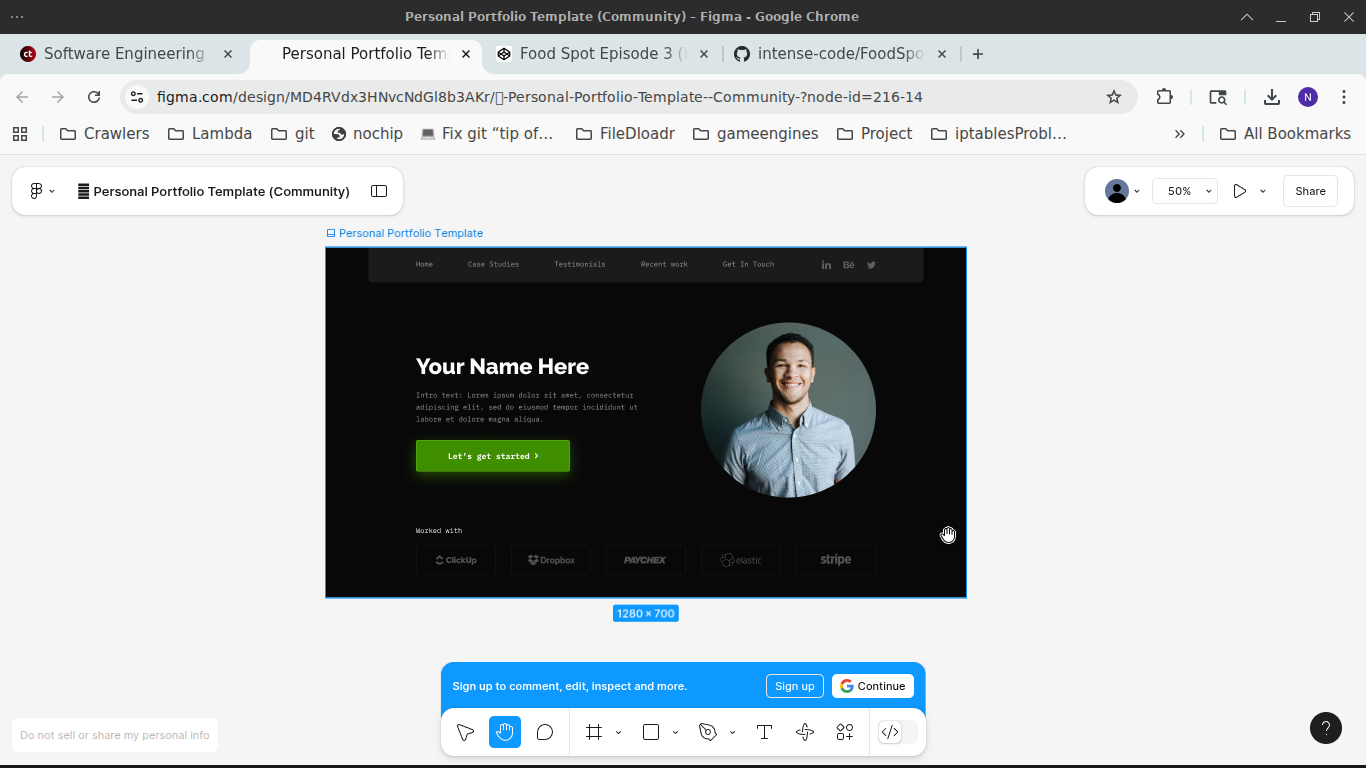
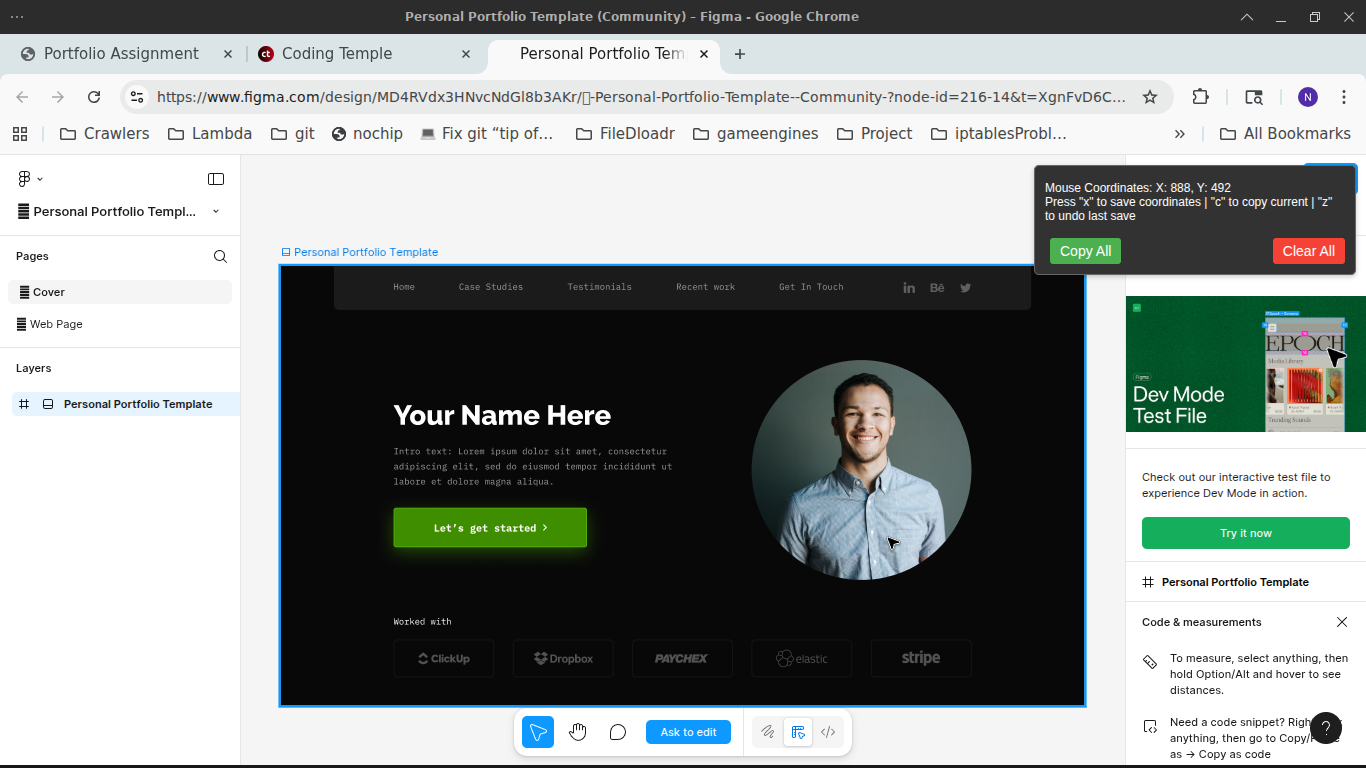
made complete site

diff --git a/style/styles.css b/style/styles.css
@@ -86,6 +86,7 @@ button{
     font-size: 24px;
     background-color: var(--bgNav); /* LinkedIn blue */
 }
+ 
 /*Main part with the lets get started and Picture */
 .project{
     display:flex;
@@ -101,8 +102,51 @@ h2{
     margin-bottom:10px;
     color:white;
 }
-img{
+.imgpic{
     border-radius: 50%;
  height: 250px;
  width: 250px;
 }
+/* Footer styles */
+.footer-content{
+    border:solid 2px var(--bgNav);
+    width:70%;
+    height:80px;
+    border-radius: 3px;
+    margin:5px;
+     
+}
+.footer-content h3{
+    color:white;
+    text-align:left;
+    margin:5px;
+    padding-top:10px;
+}
+footer{
+     display: flex;
+    flex-direction: column;
+    justify-content:flex-start;
+    align-items: center;
+    gap: 60px;
+    width: 70%;
+    margin: 20px auto;
+}
+footer .footer-content{
+    display: flex;
+    flex-direction: column;
+    justify-content: center;
+    align-items: center;
+    gap: 60px; 
+}  
+.footman{
+    display: flex;
+    flex-direction: column;
+    justify-content: center;
+    align-items: center;
+    gap: 60px; 
+}   
+footer.footman{
+   width:70%;
+    margin:20px auto;
+    height:100%;
+    }

diff --git a/index.html b/index.html
@@ -33,17 +33,20 @@
             <button>Lets Get Started ></button>
             </div>
             <div>
-            <img src="Pictures/me.jpg" alt="Nicholas Anthony Lacapria Image">
+            <img class='imgpic'src="Pictures/me.jpg" alt="Nicholas Anthony Lacapria Image">
             </div>
         </section>
-        <section class="project">
-            <h2>Another Project</h2>
-            <img src="another-project-image.jpg" alt="Another Project Image">
-            <p>This is a brief description of another project. It showcases different skills and tools.</p>
-        </section>
+         
     </main>
-    <footer>
-        <p>&copy; 2024 My Portfolio</p>
-    </footer>
+ 
+     
+        <footer>
+            <div class="footer-content">
+        <h3>Worked With</h3>  
+        
+        <img src="Pictures/buttonsbar.png" alt="Worked with Image">
+        </div>
+        </footer> 
+    
 </body>
 </html>

diff --git a/README.md b/README.md
@@ -2,3 +2,20 @@
 Figma Portfolio Showcase Assignment
 Copy and showcase this Figma
 https://www.figma.com/design/MD4RVdx3HNvcNdGl8b3AKr/%F0%9F%8E%A8-Personal-Portfolio-Template--Community-?node-id=216-6&p=f&t=icobEjtJwbARGSwa-0
+
+
+Linux/macOS: mogrify -crop {Width}x{Height}+{X}+{Y} *.png
+identify -format '%wx%h' Clickup.png 
+53x19'
+
+X: 436, Y: 508
+X: 498, Y: 507
+X: 497, Y: 501
+X: 429, Y: 496
+
+X: 497, Y: 501
+X: 436, Y: 508
+X: 815, Y: 500
+X: 717, Y: 501
+X: 622, Y: 500
+X: 526, Y: 499
